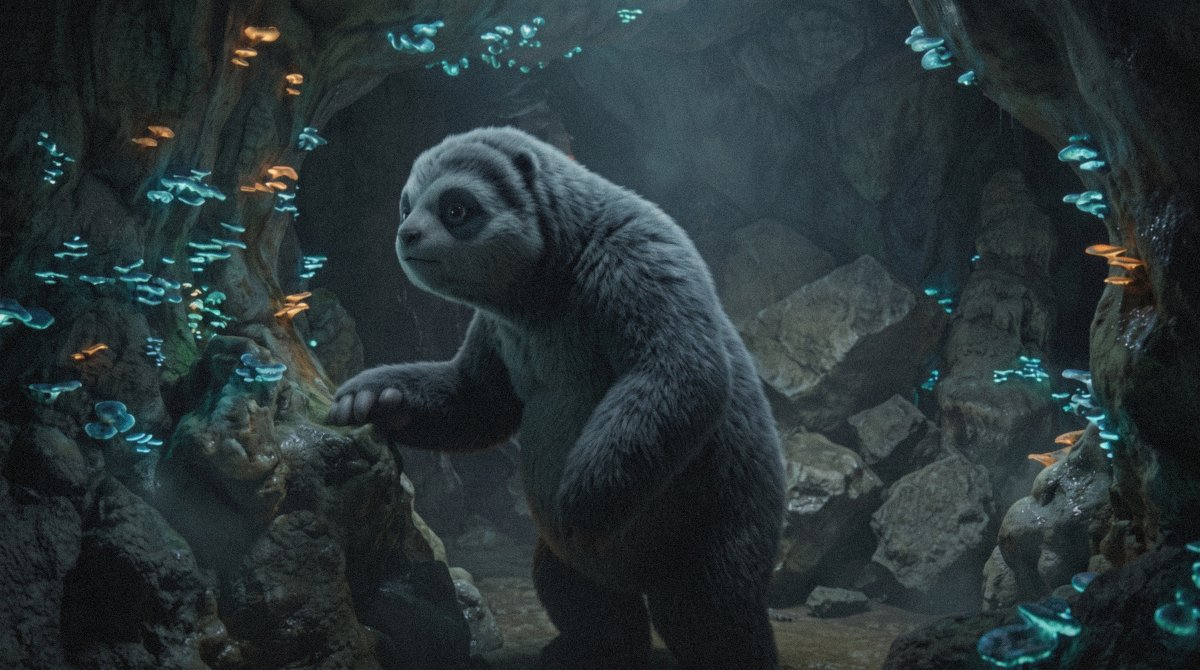
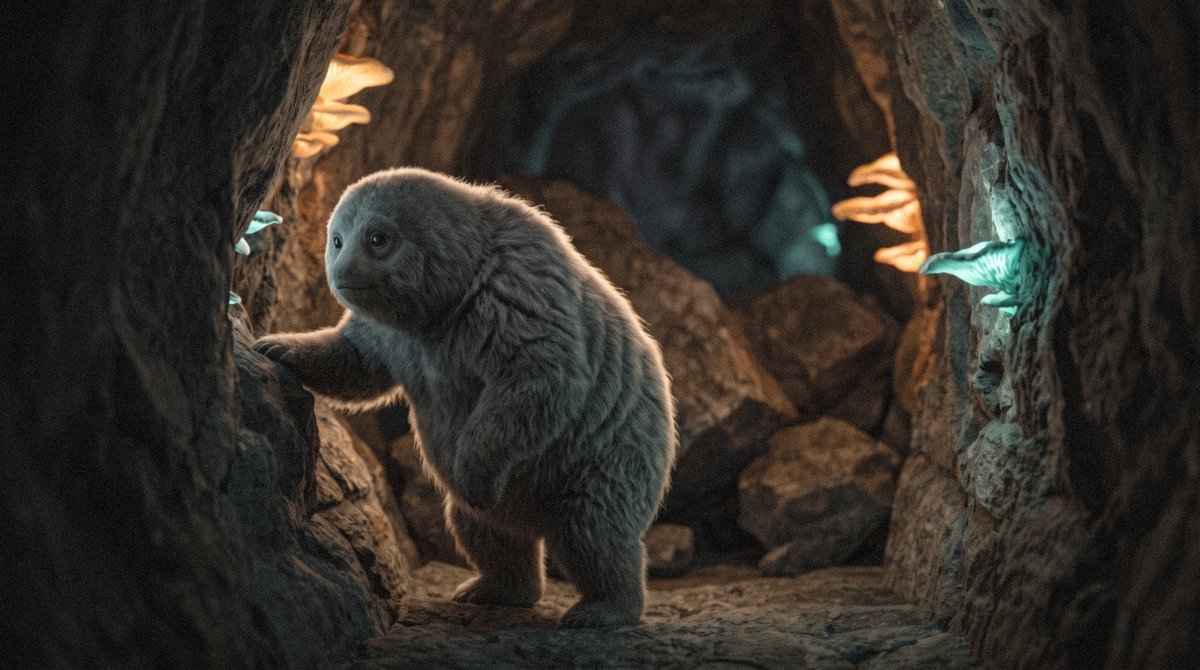
Re-make Teddy and Went-Round as photographs from further off
Dermot chose shape 1 (photograph the Pandoids from further off, back-lit)
and, for the ears the photographic frames grew, "heal ears out, then
file". The render reference is dropped; his lion portrait is the fur
reference. Ears and nose leather were edited out of the chosen frames,
nothing else changed. Stone-First keeps its portrait after one more roll.

diff --git a/story-bible/images.md b/story-bible/images.md
@@ -1636,7 +1636,7 @@ go in its bullet prose, never in the quote.)
   1's first variant, which has the best face of the four. *Fliade*: amber and blue-green fungus-light, wet stone,
   cold register with one warm body in it.
   References: `../dermot-cochran-photography/src/images/photos/lion-portrait-at-dusk.jpg`
-  > Documentary wildlife photograph taken inside the world by a 29th-century camera, available light only. A wide shot inside a deep natural cavern of an alien world, lit only by bioluminescent fungi coating the rock in soft amber and blue-green, no other light source. In the foreground, on a floor of pale mineral silt, a small upright cylindrical survey instrument with a smooth matte casing stands on its base at the exact point where a line of human bootprints in the silt ends; the prints come toward the camera from the left and stop. A few steps beyond the instrument, at the edge of the light and partly in shadow, stands a large alien being built on the lines of a giant panda, to a human eye a bit like a giant panda, and photographed the way a wildlife photographer photographs a real giant panda in the wild, with the same weight, the same fur and the same light, though it is grey and plainly not one, but unmistakably not an Earth animal: a stocky, rounded, heavy-bottomed body rising upright on two short hind legs, thick limbs of equal length, a big round head with no external ears, a broad flat face with a very short muzzle and no nose leather, a wide lipless mouth, and very large dark eyes set wide for seeing in low light, ringed with darker grey markings; dense thick grey fur that grows in soft overlapping ridges over the head, shoulders and back like a coat of down, soft to look at but real fur like a wild animal's thick winter coat, uneven, a little matted and damp, pale silt caught in it low down, individual guard hairs catching the amber light along its edges; turned three-quarters toward the camera so that its face is visible in the fungus-light, with those large bright attentive eyes holding an expression of open curiosity and quiet intelligence, soft and warm and neither foolish nor weak; one heavy forelimb still lowered toward the instrument as if it has just been set down. The being is clearly not a human in a costume and clearly not an ape: no gorilla, no yeti, no sasquatch, no primate brow ridge, no long arms, no knuckle-walking. It is panda-like in silhouette and build but grey all over, never black and white, and plainly an alien: no Earth panda, no Earth bear, no ears, no wet nose. The being is smaller than the passage it stands in would suggest an adult of its kind to be, and rounder. Humid air, a faint sheen of moisture on the stone, a narrow squeeze in the rock visible behind the being where the passage closes down. Quiet, watchful, unsettling and calm; nothing threatening is happening. No readable text, lettering, numerals, signage, labels, branding or written characters of any script anywhere in frame, including on the instrument; no screens, lamps, torches, electric lights or light fittings; no people, no other animals; no weapons; no ape anatomy; no black-and-white colouring; no glamour lighting or studio backdrop. Photographed, not rendered: a real camera in a real cave, high-ISO grain heavier in the shadows, a fast lens near wide open with shallow depth of field and slight softness toward the corners, the exposure a touch under so the darks hold detail without going to black, muted natural colour, the small untidy imperfections a real photograph keeps. The reference image is Dermot's photograph of a real animal and is for light, grain and the texture of real fur only; do not copy its animal. Render negatives: 3D render, CGI, octane render, video-game render, animated film still, Pixar, Disney, clay or plasticine sculpture, plush toy, stuffed toy, felt, fur suit, plastic sheen, airbrushed, over-smooth surfaces, glossy concept art. 16:9 landscape.
+  > Documentary wildlife photograph taken inside the world by a 29th-century camera, available light only. Seen from well back in the passage, the way a wildlife photographer at a distance would take it: the being small in the frame, a fifth of the frame's height or less, a round heavy outline like a big soft bear's and nothing like an ape's, lit from behind and to one side by the fungi so that it reads first as a rounded back-lit outline with the fur glowing at its edges, its face half in shadow. A wide shot inside a deep natural cavern of an alien world, lit only by bioluminescent fungi coating the rock in soft amber and blue-green, no other light source. In the foreground, on a floor of pale mineral silt, a small upright cylindrical survey instrument with a smooth matte casing stands on its base at the exact point where a line of human bootprints in the silt ends; the prints come toward the camera from the left and stop. A few steps beyond the instrument, at the edge of the light and partly in shadow, stands a large alien being built on the lines of a giant panda, to a human eye a bit like a giant panda, and photographed the way a wildlife photographer photographs a real giant panda in the wild, with the same weight, the same fur and the same light, though it is grey and plainly not one, but unmistakably not an Earth animal: a stocky, rounded, heavy-bottomed body rising upright on two short hind legs, thick limbs of equal length, a big round head with no external ears, a broad flat face with a very short muzzle and no nose leather, a wide lipless mouth, and very large dark eyes set wide for seeing in low light, ringed with darker grey markings; dense thick grey fur that grows in soft overlapping ridges over the head, shoulders and back like a coat of down, soft to look at but real fur like a wild animal's thick winter coat, uneven, a little matted and damp, pale silt caught in it low down, individual guard hairs catching the amber light along its edges; turned three-quarters toward the camera so that the lit half of its face and one eye catch the fungus-light, with those large bright attentive eyes holding an expression of open curiosity and quiet intelligence, soft and warm and neither foolish nor weak; one heavy forelimb still lowered toward the instrument as if it has just been set down. The being is clearly not a human in a costume and clearly not an ape: no gorilla, no yeti, no sasquatch, no primate brow ridge, no long arms, no knuckle-walking. It is panda-like in silhouette and build but grey all over, never black and white, and plainly an alien: no Earth panda, no Earth bear, no ears, no wet nose. The being is smaller than the passage it stands in would suggest an adult of its kind to be, and rounder. Humid air, a faint sheen of moisture on the stone, a narrow squeeze in the rock visible behind the being where the passage closes down. Quiet, watchful, unsettling and calm; nothing threatening is happening. No readable text, lettering, numerals, signage, labels, branding or written characters of any script anywhere in frame, including on the instrument; no screens, lamps, torches, electric lights or light fittings; no people, no other animals; no weapons; no ape anatomy; no black-and-white colouring; no glamour lighting or studio backdrop. Photographed, not rendered: a real camera in a real cave, high-ISO grain heavier in the shadows, a fast lens near wide open with shallow depth of field and slight softness toward the corners, the exposure a touch under so the darks hold detail without going to black, muted natural colour, the small untidy imperfections a real photograph keeps. The reference image is Dermot's photograph of a real animal, for light, grain and the texture of real fur only, never its animal. Render negatives: 3D render, CGI, octane render, video-game render, animated film still, Pixar, Disney, clay or plasticine sculpture, plush toy, stuffed toy, felt, fur suit, plastic sheen, airbrushed, over-smooth surfaces, glossy concept art. 16:9 landscape.
   - **What the two rounds taught:** *upright, furred, heavy-shouldered, no
     snout* is the generator's description of a gorilla, and negating the ape
     by name does not move it. The prompt needs a positive body detail that is
@@ -4060,14 +4060,14 @@ reference, and Toval takes Syra's.
 - **`stone-first.jpg`** — Pandoid, keeper of the margin below Fliade's roof; moves a stone before entering any place.
   An adult of the Told at the margin where the upper levels shelve down into the deep, seen from a little way off in the fungal light, a fist-sized stone just set down on the silt ahead of it. Teddy's filed portrait is the kind's build at the adult scale; the adult is larger and greyer. Attention on the dark ahead, not on the camera.
   References: `../dermot-cochran-photography/src/images/photos/lion-portrait-at-dusk.jpg`
-  > Candid documentary photograph, 16:9 landscape, the face in the upper third of the frame, attention off-frame, at work, never posed to camera, dressed for the work and the place, modest, nothing that invites the viewer. A large adult alien being, round and gentle-looking like a very large teddy bear, to a human eye a bit like a giant panda, and photographed the way a wildlife photographer photographs a real giant panda in the wild, with the same weight, the same fur and the same light, though it is grey and plainly not one, and unmistakably not an Earth animal: a big round head on a round body with almost no neck, a short flat face with a very short muzzle, no external ears, a small closed mouth, large dark round eyes set wide, dense soft grey fur in overlapping ridges that looks soft but is real fur, like a wild animal's thick winter coat: uneven, a little matted and damp, pale silt caught in it low down, individual guard hairs catching the fungal light, stocky and heavy-bottomed, upright on two short hind legs, thick limbs of equal length, here older and broader than a youngster, with the fur paler at the crown. Not a sloth: no long face, no hanging arms, no claws. It stands at the lip where a wide cavern floor of pale silt shelves down into darkness, lit only by bioluminescent fungi on the rock in soft amber and blue-green, one fist-sized stone newly set down on the silt a stride ahead of it, its face turned toward the dark below and not toward the camera. Nothing else in frame. No tools, no clothing, no light source but the fungi, no lettering. Negative: readable text, lettering, numerals, signage, labels, branding or written characters of any script anywhere in frame; holograms, projected light, glowing displays, screens, monitors, consoles, dials, gauges, meters, knobs, toggles, tube screens, exposed cables, tablets, laptops; visible lamp, light fitting or bulb; flat studio backdrop, gradient background, glamour lighting, corporate headshot, posed smiling to camera; weapons. sloth, black-and-white colouring, gorilla, ape, cartoon, fur suit, claws, menace, torch beam. Photographed, not rendered: a real camera in a real cave, high-ISO grain heavier in the shadows, a fast lens near wide open with shallow depth of field and slight softness toward the corners, the exposure a touch under so the darks hold detail without going to black, muted natural colour, the small untidy imperfections a real photograph keeps. The reference image is Dermot's photograph of a real animal and is for light, grain and the texture of real fur only; do not copy its animal. Render negatives: 3D render, CGI, octane render, video-game render, animated film still, Pixar, Disney, clay or plasticine sculpture, plush toy, stuffed toy, felt, fur suit, plastic sheen, airbrushed, over-smooth surfaces, glossy concept art.
+  > Candid documentary photograph, 16:9 landscape, attention off-frame, at work, never posed to camera, modest, nothing that invites the viewer. Seen from well back in the passage, the way a wildlife photographer at a distance would take it: the being small in the frame, a fifth of the frame's height or less, a round heavy outline like a big soft bear's and nothing like an ape's, lit from behind and to one side by the fungi so that it reads first as a rounded back-lit outline with the fur glowing at its edges, its face half in shadow. A large adult alien being, round and gentle-looking like a very large teddy bear, to a human eye a bit like a giant panda, and photographed the way a wildlife photographer photographs a real giant panda in the wild, with the same weight, the same fur and the same light, though it is grey and plainly not one, and unmistakably not an Earth animal: a big round head on a round body with almost no neck, a short flat face with a very short muzzle, no external ears, a small closed mouth, large dark round eyes set wide, dense soft grey fur in overlapping ridges that looks soft but is real fur, like a wild animal's thick winter coat: uneven, a little matted and damp, pale silt caught in it low down, individual guard hairs catching the fungal light, stocky and heavy-bottomed, upright on two short hind legs, thick limbs of equal length, here older and broader than a youngster, with the fur paler at the crown. Not a sloth: no long face, no hanging arms, no claws. One being only, alone in the frame, standing upright on its two hind legs, never on all fours. It stands at the lip where a wide cavern floor of pale silt shelves down into darkness, lit only by bioluminescent fungi on the rock in soft amber and blue-green, one fist-sized stone newly set down on the silt a stride ahead of it, its face turned toward the dark below and not toward the camera. Nothing else in frame. No tools, no clothing, no light source but the fungi, no lettering. Negative: readable text, lettering, numerals, signage, labels, branding or written characters of any script anywhere in frame; holograms, projected light, glowing displays, screens, monitors, consoles, dials, gauges, meters, knobs, toggles, tube screens, exposed cables, tablets, laptops; visible lamp, light fitting or bulb; flat studio backdrop, gradient background, glamour lighting, corporate headshot, posed smiling to camera; weapons. sloth, black-and-white colouring, gorilla, ape, cartoon, fur suit, claws, menace, torch beam. Photographed, not rendered: a real camera in a real cave, high-ISO grain heavier in the shadows, a fast lens near wide open with shallow depth of field and slight softness toward the corners, the exposure a touch under so the darks hold detail without going to black, muted natural colour, the small untidy imperfections a real photograph keeps. The reference image is Dermot's photograph of a real animal, for light, grain and the texture of real fur only, never its animal. Render negatives: 3D render, CGI, octane render, video-game render, animated film still, Pixar, Disney, clay or plasticine sculpture, plush toy, stuffed toy, felt, fur suit, plastic sheen, airbrushed, over-smooth surfaces, glossy concept art.
   - **The stone is the name.** One act on the page, as the chapter had it.
   - **Delivered 7 October 2026**, variation 1 of 2 of the second roll (`gemini-3.1-flash-image`, 2K, Teddy's portrait sent as the reference), through `import-image.ps1` at finish strength 1, after Dermot's *cute giant teddy bears* ruling: back to the camera, the stone set down ahead; 2 wore a tunic the people do not have.
 
 - **`went-round.jpg`** — Pandoid, an adult of the Told; goes round a thing rather than through it.
   The same people, the same light, a different act: at a passage blocked by fallen rock, the adult already turned toward the side opening it has found, one forelimb on the rock edge. Same reference, same scale as Stone-First so the two read as one people; leaner than Stone-First, the fur darker.
   References: `../dermot-cochran-photography/src/images/photos/lion-portrait-at-dusk.jpg`
-  > Candid documentary photograph, 16:9 landscape, the face in the upper third of the frame, attention off-frame, at work, never posed to camera, dressed for the work and the place, modest, nothing that invites the viewer. A large adult alien being, round and gentle-looking like a very large teddy bear, to a human eye a bit like a giant panda, and photographed the way a wildlife photographer photographs a real giant panda in the wild, with the same weight, the same fur and the same light, though it is grey and plainly not one, and unmistakably not an Earth animal: a big round head on a round body with almost no neck, a short flat face with a very short muzzle, no external ears, a small closed mouth, large dark round eyes set wide, dense soft fur in overlapping ridges that looks soft but is real fur, like a wild animal's thick winter coat: uneven, a little matted and damp, pale silt caught in it low down, individual guard hairs catching the fungal light, stocky, upright on two short hind legs, thick limbs of equal length, here leaner than most adults and the fur a darker grey. Not a sloth: no long face, no hanging arms, no claws. It stands in a rock passage deep underground where the way ahead is blocked by a fall of boulders, lit only by bioluminescent fungi on the rock in soft amber and blue-green, its body already turned three-quarters away from the blockage toward a narrower side opening at the left of frame, one forelimb resting on the rock edge of that opening, its face toward the side way and not toward the camera. Nothing else in frame. No tools, no clothing, no light but the fungi, no lettering. Negative: readable text, lettering, numerals, signage, labels, branding or written characters of any script anywhere in frame; holograms, projected light, glowing displays, screens, monitors, consoles, dials, gauges, meters, knobs, toggles, tube screens, exposed cables, tablets, laptops; visible lamp, light fitting or bulb; flat studio backdrop, gradient background, glamour lighting, corporate headshot, posed smiling to camera; weapons. black-and-white colouring, gorilla, ape, teddy bear toy, cartoon, fur suit, claws bared, menace, torch beam, digging. Photographed, not rendered: a real camera in a real cave, high-ISO grain heavier in the shadows, a fast lens near wide open with shallow depth of field and slight softness toward the corners, the exposure a touch under so the darks hold detail without going to black, muted natural colour, the small untidy imperfections a real photograph keeps. The reference image is Dermot's photograph of a real animal and is for light, grain and the texture of real fur only; do not copy its animal. Render negatives: 3D render, CGI, octane render, video-game render, animated film still, Pixar, Disney, clay or plasticine sculpture, plush toy, stuffed toy, felt, fur suit, plastic sheen, airbrushed, over-smooth surfaces, glossy concept art.
+  > Candid documentary photograph, 16:9 landscape, attention off-frame, at work, never posed to camera, modest, nothing that invites the viewer. Seen from well back in the passage, the way a wildlife photographer at a distance would take it: the being small in the frame, a fifth of the frame's height or less, a round heavy outline like a big soft bear's and nothing like an ape's, lit from behind and to one side by the fungi so that it reads first as a rounded back-lit outline with the fur glowing at its edges, its face half in shadow. A large adult alien being, round and gentle-looking like a very large teddy bear, to a human eye a bit like a giant panda, and photographed the way a wildlife photographer photographs a real giant panda in the wild, with the same weight, the same fur and the same light, though it is grey and plainly not one, and unmistakably not an Earth animal: a big round head on a round body with almost no neck, a short flat face with a very short muzzle, no external ears, a small closed mouth, large dark round eyes set wide, dense soft fur in overlapping ridges that looks soft but is real fur, like a wild animal's thick winter coat: uneven, a little matted and damp, pale silt caught in it low down, individual guard hairs catching the fungal light, stocky, upright on two short hind legs, thick limbs of equal length, here leaner than most adults and the fur a darker grey. Not a sloth: no long face, no hanging arms, no claws. It stands in a rock passage deep underground where the way ahead is blocked by a fall of boulders, lit only by bioluminescent fungi on the rock in soft amber and blue-green, its body already turned three-quarters away from the blockage toward a narrower side opening at the left of frame, one forelimb resting on the rock edge of that opening, its face toward the side way and not toward the camera. Nothing else in frame. No tools, no clothing, no light but the fungi, no lettering. Negative: readable text, lettering, numerals, signage, labels, branding or written characters of any script anywhere in frame; holograms, projected light, glowing displays, screens, monitors, consoles, dials, gauges, meters, knobs, toggles, tube screens, exposed cables, tablets, laptops; visible lamp, light fitting or bulb; flat studio backdrop, gradient background, glamour lighting, corporate headshot, posed smiling to camera; weapons. black-and-white colouring, gorilla, ape, teddy bear toy, cartoon, fur suit, claws bared, menace, torch beam, digging. Photographed, not rendered: a real camera in a real cave, high-ISO grain heavier in the shadows, a fast lens near wide open with shallow depth of field and slight softness toward the corners, the exposure a touch under so the darks hold detail without going to black, muted natural colour, the small untidy imperfections a real photograph keeps. The reference image is Dermot's photograph of a real animal, for light, grain and the texture of real fur only, never its animal. Render negatives: 3D render, CGI, octane render, video-game render, animated film still, Pixar, Disney, clay or plasticine sculpture, plush toy, stuffed toy, felt, fur suit, plastic sheen, airbrushed, over-smooth surfaces, glossy concept art.
   - **Already turned.** The name is a way of being; the portrait catches it mid-act.
   - **Delivered 7 October 2026**, variation 2 of 2 of the second roll (`gemini-3.1-flash-image`, 2K, Teddy's portrait sent as the reference), through `import-image.ps1` at finish strength 1, after Dermot's *cute giant teddy bears* ruling: no clothing and already turned; 1 wore a harness.
 
@@ -4337,3 +4337,5 @@ Dermot, 10 October 2026, verbatim: *"please triage any generate images under sta
 - *His call, recommendation first:* `lagrange-fold-points` and `ftl-mechanics` (keep the card, add an inline diagram); `civilisation-comparison` (keep); `cnoc-na-mbeach` (an institution that is also a place: one of his own frames beside the card, e.g. `martello-through-st-begnets`); `levrils` (keep; immaterial, and the trope default bites).
 
 **Approved and drawn** (Dermot, 10 October 2026, verbatim *"All recommendations agreed"*). `lagrange-fold-points` and `ftl-mechanics` keep their emblem cards, and each now carries the first inline diagrams under the 29 September convention: on the Lagrange page, in *Operational Implications*, the five balance points of a two-body system with L4 and L5 at 60° ahead and behind, each marked by fold-staging tier and stability, not to scale; on the FTL page, in *Cascade Scope*, the formcluster and its Common Manifold where folding is defined, the local archecluster where harmonic corridors are defined, and a neighbouring archecluster that folds alike and need not have corridors, with the page's one pace figure (on the order of a light-year a day). Nothing numeric was drawn that the pages do not state: no distances for L1 and L2, no fold durations, and no membranes, since neither page says how membranes sit inside an archecluster. The colours are the palette's custom properties through the new `.lore-diagram` block in `main.css`, mapped onto system colours under Windows high contrast. `civilisation-comparison`, `cnoc-na-mbeach` and `levrils` were not part of this change.
+
+**Pandoids, 10–11 October 2026** (Dermot: *"All recommendations agreed"*, so shape 1, photographed from further off; then *"Heal ears out, then file"*). With the filed `teddy.jpg` sent as a reference the generator re-rendered it, cavern and all, so the render look came back whatever the distance; without it, and with the being small, back-lit and described as a round heavy outline like a big soft bear's, the frames turned photographic and panda-like, as he says a human eye sees them, but grew small rounded ears and nose leather. Those were removed by an image edit of the chosen frame that changed nothing else, the way a lens was healed out of Toval's desk. **Filed:** `teddy.jpg` (variation 1 of the no-reference round, ears and nose healed) and `went-round.jpg` (the same). **Stone-First keeps its filed portrait:** one further roll, alone and upright, drew a bear on all fours and an ape-shouldered outline. The prompts of record now carry the distance, the back light and Dermot's lion portrait as the fur reference, and no render reference.

diff --git a/CHANGELOG.md b/CHANGELOG.md
@@ -64,6 +64,8 @@ The format loosely follows [Keep a Changelog](https://keepachangelog.com/en/1.1.
 
 - **The first two technical diagrams, on the Lagrange and FTL pages** (`src/lore/lagrange-fold-points.md`, `src/lore/ftl-mechanics.md`, `src/css/main.css` and the generated themes, `story-bible/images.md`, 2026-10-10, Dermot's *"All recommendations agreed"* to the card review). Both pages keep their emblem cards as the page image and each gains a hand-written inline SVG figure in the body, drawn under the 29 September diagram convention from the page's own words and numbers only. *Lagrange Points and Fold-Space Transit* shows the five balance points of a two-body system in its *Operational Implications* section, with L4 and L5 at 60° ahead and behind, each point marked by the Survey Corps' fold-staging tier (Tier 1, Tier 2, generally not cleared) and by whether it is stable, and says it is not to scale. *FTL Mechanics* shows, in its *Cascade Scope* section, the local formcluster in its Common Manifold where folding is defined, the local archecluster where harmonic corridors are defined, and a neighbouring archecluster that folds by the same rules and need not have corridors, with the page's one figure for pace (on the order of a light-year a day). A new `.lore-diagram` block in `main.css` colours the figures from the palette's custom properties, so every theme and both light and dark draw them, and maps them onto system colours under Windows high contrast, where a light palette's ink would otherwise vanish.
 
+- **Teddy and Went-Round re-made as photographs** (`src/images/characters/teddy.jpg`, `went-round.jpg`, their pages' `image_alt`, `story-bible/images.md`, 2026-10-11, Dermot's choice to photograph the Pandoids from further off). Back-lit and smaller in frame, with his own lion portrait as the reference for real fur; the small ears and nose leather the generator added were edited out of the chosen frames, so the record's description stands. Stone-First keeps its portrait.
+
 - **Four character portraits re-made as photographs** (`src/images/characters/toval.jpg`, `jeeves.jpg`, `lucene-9000.jpg`, `muffin.jpg`, their pages' `image_alt`, `story-bible/images.md`, `scripts/import-image.ps1`, 2026-10-10, at Dermot's ask to triage the portraits that do not look photorealistic). The prompts now open as a documentary photograph rather than *cinematic*, name real materials, a lens and grain, and negate the render look; Toval, Jeeves and Lucene-9000 keep their designs, and Muffin's frame now implies the presence by a dented cloth beside the saucer, after the defocused shape resolved into a cat four times. The three Pandoid portraits stay as filed while the choice between a photographic body and canon's no-ears face is his. The rest of the triage and a review of the designed cards that could become pictures are recorded in `images.md`. `import-image.ps1` now tries the `py` launcher before `python`, which on a Windows machine with only the Store alias had been skipping the photographic finish.
 
 - **Season 13 seated on the young-adult rung, a 2831 timeline entry for Dock Seven, and the dialect device adopted for plural minds first** (`src/tiers/index.md`, `lib/editions.js`, `test/editions.test.js`, `src/timeline/2831-dock-seven-last-stand.md`, `CLAUDE.md`, `story-bible/ideas.md`, `story-bible/open-questions.md`, 2026-10-10, Dermot's *"Approved"* to five recommendations — `story-bible/intake-2026-10-10.md`, *Rulings of the evening*). *The Infinite Castle and the Timeless Library* was on no rung of the Reading Tiers page though his 19 September ruling put it at the young-adult tier; it now sits on that rung beside Orbital Five-O and Young Star Rangers, with a sentence saying it has no door of its own yet and is read on the general addresses, and the `GENERAL_TIER` listing in `lib/editions.js` says which rung it stands for, pinned by a unit test that keeps it off both young-adult editions. No edition's page set changes. The timeline, which stopped at 2827, gains *The Last Stand off Dock Seven* (Mid-Autumn 2831 UCSD), stated only from S05E02C03, the Threshold Station page and the two Dock Seven Codex filings, with what produces the forty seconds left marked absent. The dialect and language-variant idea of 7 October is ruled adopted, applying first to Sen's three, Cael, Wyn and Sen, under its three constraints (lexis and rhythm, never phonetic spelling; every member real; a speech difference never a tell for the dangerous one), recorded in CLAUDE.md with no prose drafted. The adult "View from" buttons on undercover-pets.com stay placeholders, and the starship note's open figures and the Seanad Draw's open bullets wait for a chapter that needs them.

diff --git a/src/characters/went-round.md b/src/characters/went-round.md
@@ -9,7 +9,7 @@ aliases: []
 tags: [alien, pandoid, fliade, below-the-roof, cavern-biosphere, star-rangers]
 description: "An adult of the Told named for going round a thing rather than through it — a blocked passage, a hard thought — and the first of the people to say aloud, in the warm, that the manners for a stranger might not fit the up-people."
 image: "went-round.jpg"
-image_alt: "A large dark-grey-furred being built like a very large soft toy bear, big round head on a round body, in a rock passage lit only by amber and blue fungi, already turned three-quarters away from a fall of boulders toward a narrower side opening, one forelimb on the rock edge of the opening"
+image_alt: "A large dark-grey furred being, round and heavy like a big panda but with no ears, lit from behind by amber and blue fungi in a rock passage, one forelimb resting on the rock edge of a side opening, a fall of boulders behind it."
 ---
 
 The name is a telling, on the pattern by which [the Told](/star-rangers/glossary/the-told/) name everyone: the first true thing said of a person that others went on repeating. What was said of this one is that they go round. Where a passage is blocked, Went-Round does not clear it but finds another; where a thought is hard, Went-Round does not finish it but comes at it from the far side to see whether it looks easier from there. It is a good way to be, and [Stone-First](/star-rangers/characters/stone-first/) has always said so, and it is not Stone-First's way. The name is rendered in translation, as every Pandoid name in the record is; the people's word is theirs.

diff --git a/src/characters/teddy.md b/src/characters/teddy.md
@@ -6,7 +6,7 @@ species: Pandoid
 role: "An individual of the deep networks, Fliade — no role the record can assign"
 status: Active
 image: teddy.jpg
-image_alt: "A stocky grey alien with a panda-like build standing upright in a cavern lit by teal and amber fungus, large dark eyes ringed in darker grey, looking toward a small plain cylindrical instrument standing on pale silt where a line of bootprints ends."
+image_alt: "A stocky grey being with a panda-like build and thick real-looking fur, half-crouched in a cavern passage lit by teal and amber fungus, its large dark eyes ringed in darker grey and turned toward the camera with open curiosity, a small plain cylindrical instrument standing on the pale silt beside it where a line of bootprints ends."
 aliases:
   - "the Teddy Bear"
   - "Individual Four (Fliade survey log)"
